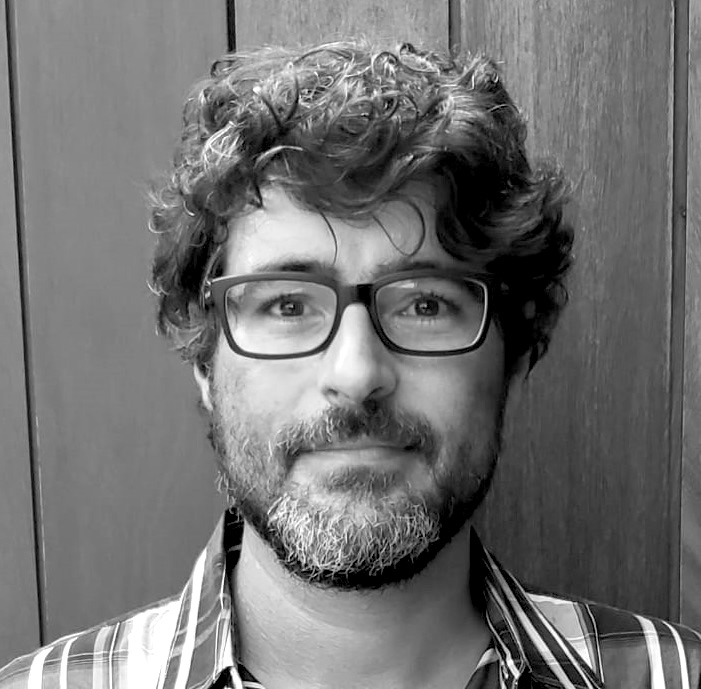
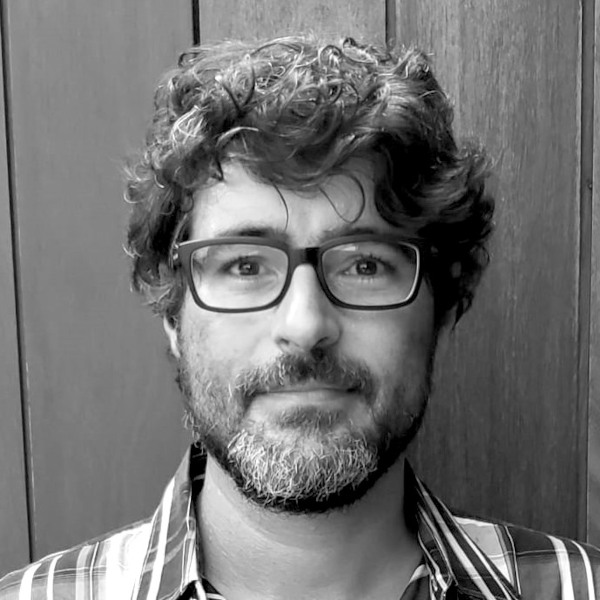
atualizando fotos das pessoas

diff --git a/_pages/people/04isabela.md b/_pages/people/04isabela.md
@@ -1,6 +1,6 @@
 ---
-title: ' Isabela Muller'
-cover: media/images/people/Isabela.bio.jpeg
+title: 'Isabela Muller'
+cover: media/images/people/pb_isabela.jpg
 category: equipe
 published: false
 ref: bio-isabela

diff --git a/_pages/people/03paloma.md b/_pages/people/03paloma.md
@@ -1,7 +1,7 @@
 ---
 title: Paloma Goulart
 link: 
-cover: media/images/people/bio_palomagoulart.jpg
+cover: media/images/people/pb_paloma.jpg
 category: equipe
 published: true
 ref: bio-paloma

diff --git a/_pages/people/03paloma_en.md b/_pages/people/03paloma_en.md
@@ -1,7 +1,7 @@
 ---
 title: Paloma Goulart
 link: 
-cover: media/images/people/bio_palomagoulart.jpg
+cover: media/images/people/pb_paloma.jpg
 category: equipe
 published: true
 ref: bio-paloma

diff --git a/_pages/people/06mariana.md b/_pages/people/06mariana.md
@@ -1,6 +1,6 @@
 ---
 title: Mariana Silveira Costa
-cover: media/images/people/Mariana_bio2.jpg
+cover: media/images/people/pb_mariana.jpg
 category: equipe
 published: true
 ref: bio-mariana

diff --git a/_pages/people/03vanessa.md b/_pages/people/03vanessa.md
@@ -1,6 +1,6 @@
 ---
 title: Vanessa Lucena
-cover: media/images/people/vanessa_bio2.jpg
+cover: media/images/people/pb_vanessa.jpg
 category: associadas
 published: true
 ref: bio-vanessa

diff --git a/_pages/people/03vanessa_en.md b/_pages/people/03vanessa_en.md
@@ -1,6 +1,6 @@
 ---
 title: Vanessa Lucena
-cover: media/images/people/vanessa_bio.jpg
+cover: media/images/people/pb_vanessa.jpg
 category: associadas
 published: true
 ref: bio-vanessa

diff --git a/_pages/people/00cinthia.md b/_pages/people/00cinthia.md
@@ -1,6 +1,6 @@
 ---
 title: Cinthia Mendonça
-cover: media/images/people/cinthia_bio.jpg
+cover: media/images/people/pb_cinthia.jpg
 category: equipe
 published: true
 ref: bio-cinthia

diff --git a/_pages/people/00cinthia_en.md b/_pages/people/00cinthia_en.md
@@ -1,6 +1,6 @@
 ---
 title: Cinthia Mendonça
-cover: media/images/people/cinthia_bio.jpg
+cover: media/images/people/pb_cinthia.jpg
 category: equipe
 published: true
 ref: bio-cinthia

diff --git a/_pages/people/04isabela_en.md b/_pages/people/04isabela_en.md
@@ -1,6 +1,6 @@
 ---
 title: Isabela Muller
-cover: media/images/people/Isabela.bio.jpeg
+cover: media/images/people/pb_isabela.jpg
 category: equipe
 published: false
 ref: bio-isabela

diff --git a/_pages/people/00analidia.md b/_pages/people/00analidia.md
@@ -1,6 +1,6 @@
 ---
 title: Ana Lídia
-cover: media/images/people/AnaLidia.bio.jpg
+cover: media/images/people/pb_analidia.jpg
 category: conselho
 published: true
 ref: bio-analidia

diff --git a/_pages/people/02adriana.md b/_pages/people/02adriana.md
@@ -1,6 +1,6 @@
 ---
 title: Adriana Alves
-cover: media/images/people/pb_adriana.jpeg
+cover: media/images/people/pb_adriana.jpg
 category: conselho
 published: true
 ref: bio-adriana

diff --git a/_pages/people/09carol.md b/_pages/people/09carol.md
@@ -1,6 +1,6 @@
 ---
 title: Carolina Melo
-cover: media/images/people/Carol.bio.jpg
+cover: media/images/people/pb_carol.jpg
 category: equipe
 published: true
 ref: bio-carol
